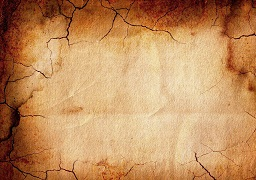
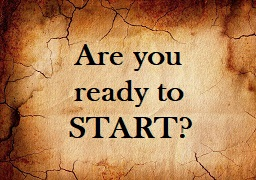
Added travelling.py and changed the are_you_ready jpeg

Changed region(s): [[0.25, 0.6389, 0.75, 0.7778], [0.2812, 0.4444, 0.7188, 0.6111], [0.2812, 0.25, 0.7188, 0.3889]]

diff --git a/pyxel-master/pyxel/travelling.py b/pyxel-master/pyxel/travelling.py
@@ -1,0 +1,42 @@
+import pyxel
+
+class App:
+    def __init__(self):
+        pyxel.init(256, 256, caption="Evening", fullscreen=True)
+        pyxel.image(0).load(0, 0, "assets/morning.jpg")
+        pyxel.mouse(True)
+
+        pyxel.run(self.update, self.draw)
+
+    def update(self):
+        if pyxel.btnp(pyxel.KEY_Q):
+            pyxel.quit()
+
+    def draw(self):
+        # CLEAR SCREEN
+        pyxel.cls(0)
+
+        # BACKGROUND
+        # blt(x, y, img, u, v, w, h, [colkey]) colkey is optional
+        pyxel.blt(0, 0, 0, 0, 0, 256, 256)
+
+        # DRAW BLACK TEXTBOX
+        # rect(x, y, w, h, col)
+        pyxel.rect(0, 180, 256, 76, 0)
+
+        # TEXT
+        pyxel.text(2, 182, "There is text here gotem", 1)
+        pyxel.text(2, 189, "There is text here too very cool stuff very nice", 2)
+        self.test_text(2, 200)
+
+        # OPTIONS
+        # pyxel.text(2, 232, str(self.option1.y), pyxel.frame_count % 16)
+        pyxel.rect(self.option1.x, self.option1.y, self.option1.side, self.option1.side, self.option1.color)
+        pyxel.text(10, self.option1.y, "This is option 1", 3)
+        pyxel.rect(self.option2.x, self.option2.y, self.option2.side, self.option2.side, self.option2.color)
+        pyxel.text(10, self.option2.y, "This is option 2", 4)
+        pyxel.rect(self.option3.x, self.option3.y, self.option3.side, self.option3.side, self.option3.color)
+        pyxel.text(10, self.option3.y, "This is option 3", 5)
+
+
+App()
